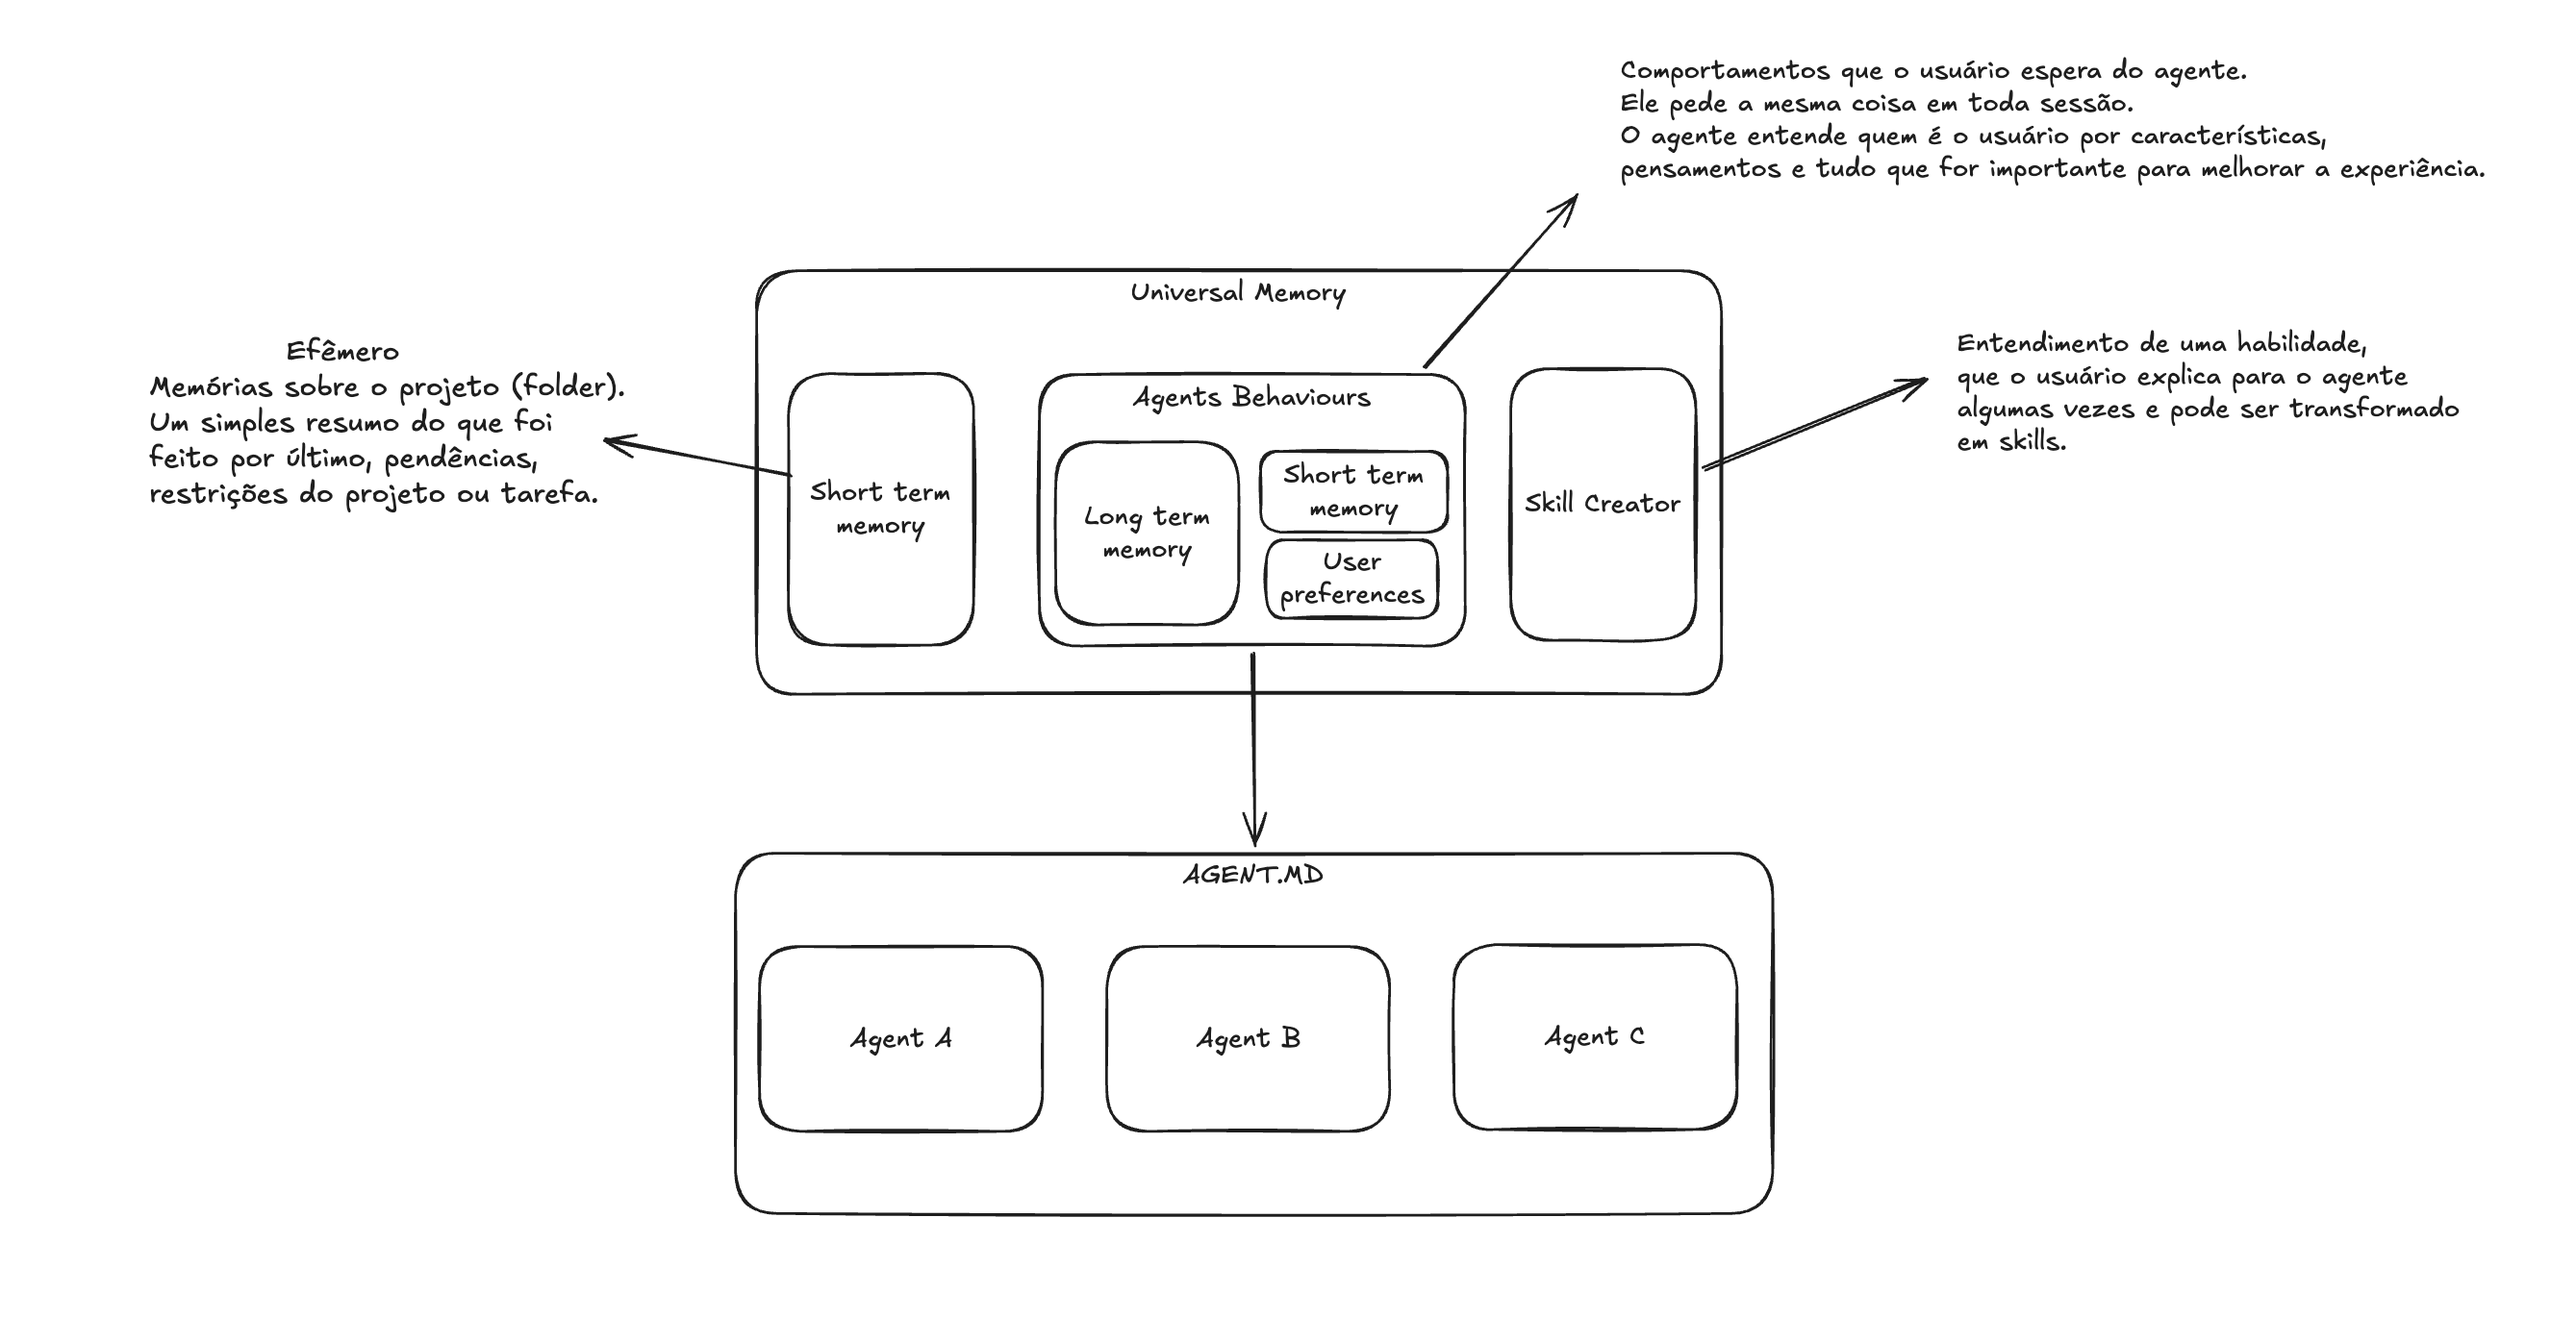
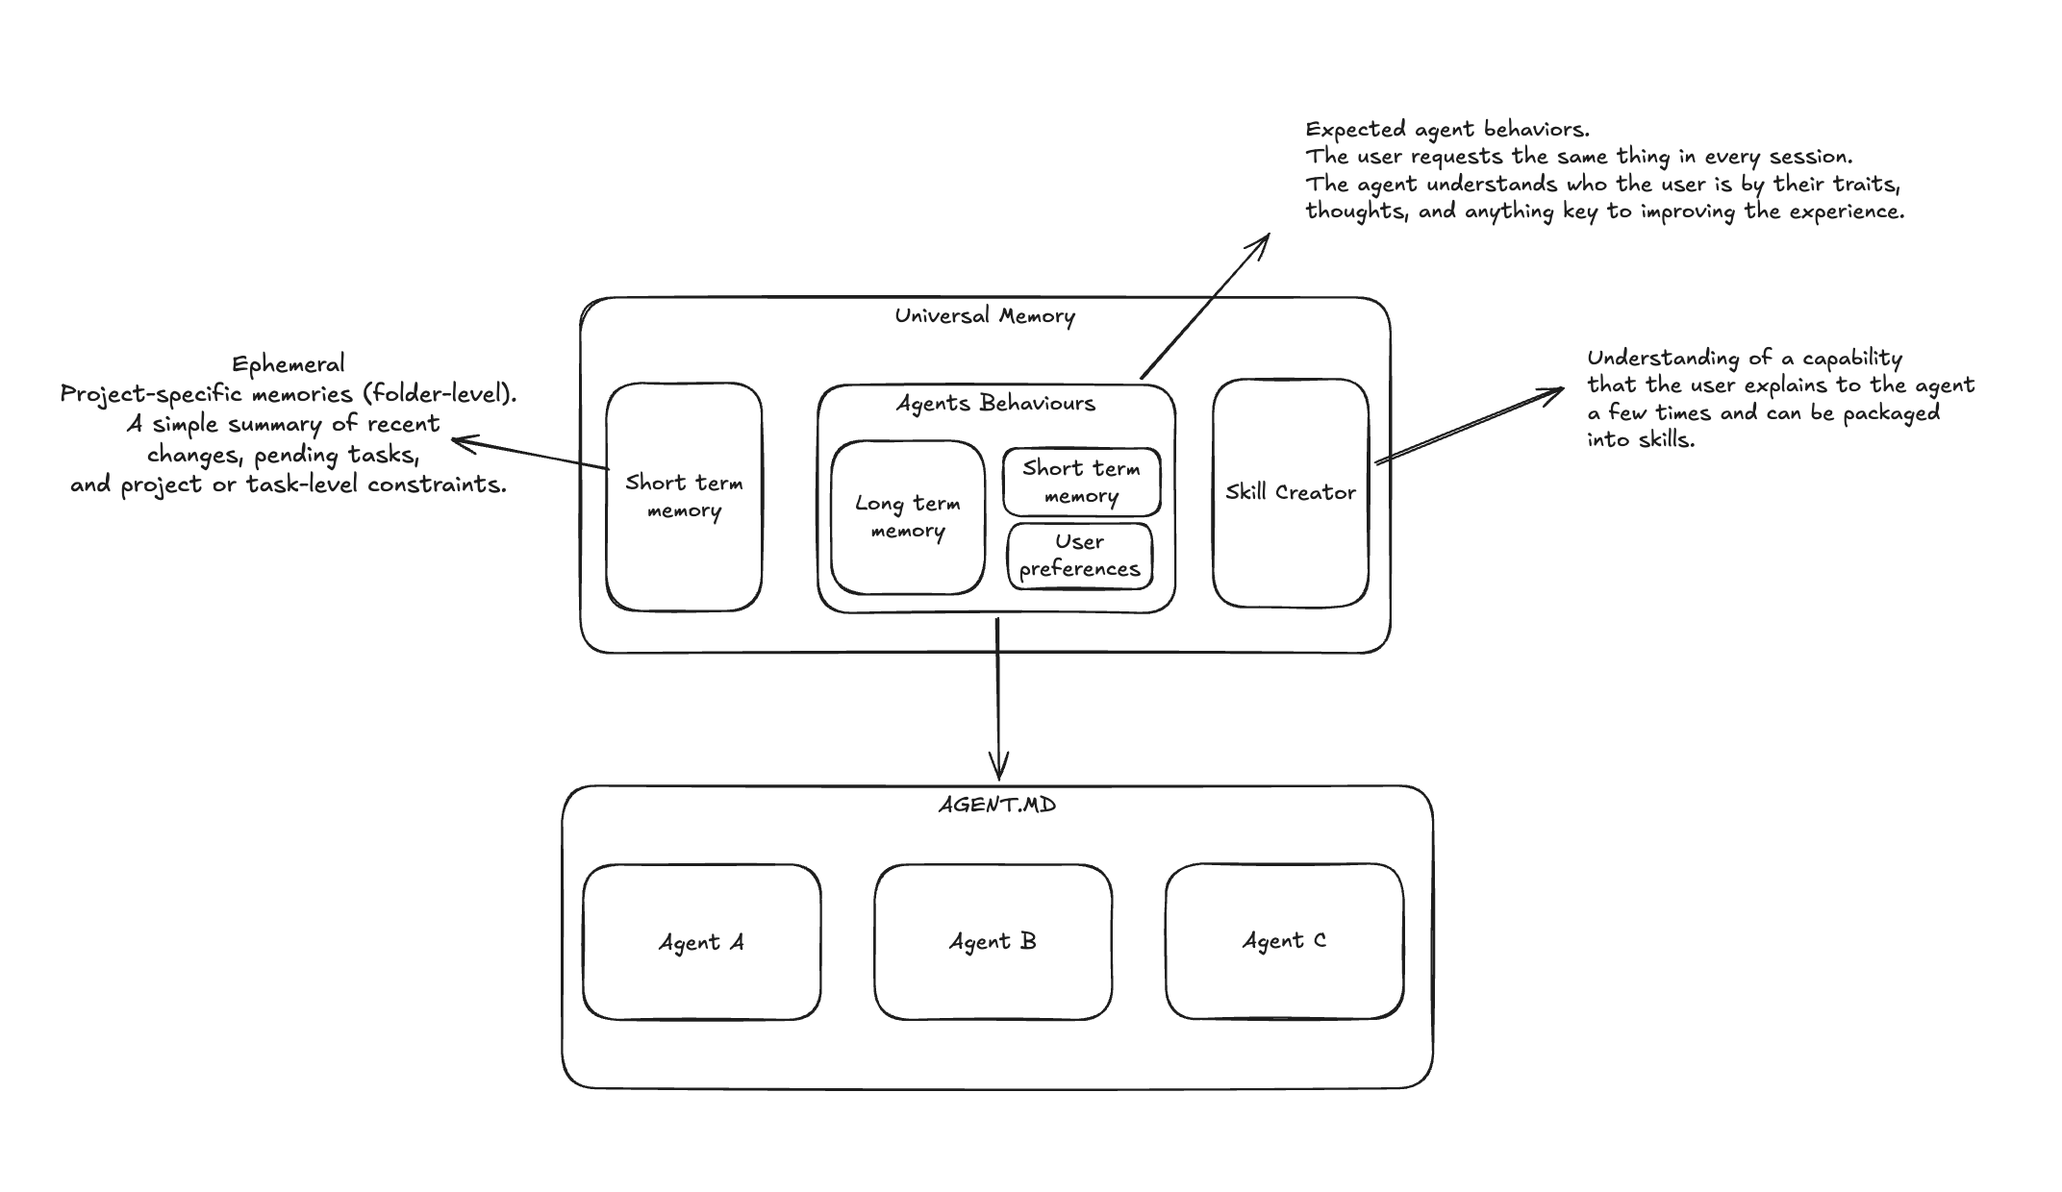
docs: add MIT LICENSE and write comprehensive project README.md

diff --git a/README.md b/README.md
@@ -1,7 +1,178 @@
-# univesal-memory
+# Universal Memory (umem)
 
-To understando the main idea look [here](https://excalidraw.com/#json=Z9cEhzx3fGTvjYv3x1gkW,hDCTn3_Kef6YpvYgo8Ps2w). Or check the image below:
+[![PyPI version](https://img.shields.io/pypi/v/universal-memory.svg)](https://pypi.org/project/universal-memory/)
+[![Python Version](https://img.shields.io/pypi/pyversions/universal-memory.svg)](https://img.shields.io/project/universal-memory/)
+[![License: MIT](https://img.shields.io/badge/License-MIT-yellow.svg)](https://opensource.org/licenses/MIT)
+
+A vendor-agnostic cognitive persistence layer for AI agents. Eliminate the "repetition tax" by transporting your context, preferences, guidelines, and history seamlessly across sessions, IDEs, and LLM models.
+
+To see the core idea visually, check out the [Excalidraw design](https://excalidraw.com/#json=j3XjQIWMYEnkIzHpypuBb,rNJaVOECDGZ3WSuEYcCDjQ) or the proposal structure:
 
 ![Universal Memory MVP Proposal](docs/UNIVERSAL-MEMORY-MVP-PROPOSAL.png)
 
-A vendor-agnostic cognitive persistence layer for AI agents. Eliminate the "repetition tax" by transporting your context, preferences, and history across sessions. Features an auto-adaptation engine that syncs global instructions to ensure operational cohesion and optimize token usage across any LLM or multi-agent workflow.
+### Diagram Breakdown (English Translation)
+
+*   **Short-Term Memory (Ephemeral):** Project-specific (folder-level) memories. A simple summary of recent changes, pending tasks, and project or task-level constraints.
+*   **Agents Behaviours:** Comports the user's expected agent behaviors. Instead of requesting the same settings in every session, the agent understands the user by their traits, thoughts, and any context key to enhancing the overall experience. This encompasses:
+    *   **Long-Term Memory**
+    *   **Short-Term Memory**
+    *   **User Preferences**
+*   **Skill Creator:** Encapsulates understanding of specific workflows. When a user explains a task pattern multiple times, the system translates it into structured, reusable agent skills.
+*   **Unified Instruction File (`AGENT.MD`):** The shared persistence endpoint consumed by all local agent instances (e.g., Agent A, Agent B, Agent C).
+
+---
+
+## The Problem: The "Repetition Tax"
+
+Every time you open a new session in Claude Code, start a new chat in Cursor, spin up a terminal with OpenCode, or invoke a local AI assistant, you pay a steep cognitive tax:
+* Re-explaining your stack (e.g., "We use Python 3.12, Typer, and Ruff").
+* Repeating coding style preferences (e.g., "Prefer functional design, do not write docstrings unless requested").
+* Copy-pasting database connection schemas or module layouts.
+* Explaining workflow methodologies (e.g., "We follow Spec-Driven Development (SDD)").
+
+Universal Memory acts as a local "Cognitive USB Drive" that automatically connects to your AI runtimes, aligning them to your exact workflow, context, and rules with zero friction.
+
+---
+
+## Key Architectural Concepts
+
+### 1. Dual-Memory Model
+*   **Short-Term Memory (Project Scope):** Ephemeral, directory-specific context. Tracks what you did 10 minutes ago, current active tasks, and immediate constraints.
+*   **Universal Memory (Global Scope):** Long-lived preferences, style guidelines, tool configurations, and identity.
+
+### 2. Auto-Adaptation Engine
+Instead of copy-pasting instructions, `umem` monitors your session context and automatically updates active project instruction manifests (`AGENTS.md`, `CLAUDE.md`, `.cursor/rules/`, etc.), enforcing operational consistency across all agents.
+
+### 3. Model Context Protocol (MCP) Integration
+Integrate `umem` natively with any client supporting the standard MCP (such as Claude Desktop or Cursor). AI agents can programmatically retrieve context, learn new facts, and suggest skills on the fly.
+
+### 4. Agent Skills Standard
+Encapsulates complex, repetitive procedural instructions into formal Agent Skills (conforming to the [agentskills.io](https://agentskills.io) standard), complete with structured directories containing `SKILL.md` instructions, helper `scripts/`, and documentation `references/`.
+
+---
+
+## Installation & Setup
+
+Ensure you have Python 3.12+ installed. You can run or install `umem` using your preferred package manager.
+
+### Run instantly with `uv` (Recommended)
+You don't even need to install it permanently:
+```bash
+uvx umem --help
+```
+
+### Install via PyPI
+```bash
+pip install universal-memory
+```
+
+---
+
+## Quick Start Guide
+
+### 1. Initialize your project
+Initialize `umem` in the current directory and hook it to your preferred runtimes/agents:
+```bash
+umem init --runtime claude-code --runtime opencode --runtime cursor
+```
+This sets up a local repository configuration, hooks up the necessary workspace instructions (`AGENTS.md`, `CLAUDE.md`), and prepares native skill folders.
+
+### 2. Save your first preferences and facts
+Tell `umem` what to keep in mind. You can target either the project scope (this folder) or the global scope (across all projects):
+```bash
+# Save a global preference
+umem remember --scope global "Yan is a solutions architect specializing in AI applications"
+
+# Save a project-specific constraint
+umem remember --scope project "Always use Tomllib instead of PyYAML for configuration files" --tag config
+```
+
+### 3. Retrieve Context
+Verify the consolidated context summary generated by combining short-term facts, rules, and global preferences:
+```bash
+umem context --scope project
+```
+
+### 4. Check status and health
+```bash
+umem status
+```
+
+---
+
+## Host Integration & Support Matrix
+
+`umem` maps cognitive context and agent skills directly into native runtime paths:
+
+| Runtime / Host | Support Tier | Config / Instructions Target |
+| --- | --- | --- |
+| **Claude Code** | Tier 1 (Full) | `CLAUDE.md`, `.claude/`, `~/.claude/` |
+| **OpenCode** | Tier 1 (Full) | `AGENTS.md`, `.opencode/`, `~/.config/opencode/` |
+| **Codex (OpenAI)** | Tier 1 (Full) | `AGENTS.md`, workspace configuration files |
+| **Cursor** | Tier 2 (Basic) | `.cursor/rules/`, `~/.cursor/` |
+| **Antigravity / Gemini** | Tier 2 (Basic) | `GEMINI.md`, `~/.gemini/` |
+
+---
+
+## Running as an Model Context Protocol (MCP) Server
+
+AI agents can interact directly with your memory over the Model Context Protocol.
+
+### CLI Launch Command
+```bash
+umem-mcp
+```
+
+### Example Config: Claude Desktop (`claude_desktop_config.json`)
+```json
+{
+  "mcpServers": {
+    "universal-memory": {
+      "command": "uv",
+      "args": [
+        "run",
+        "--package",
+        "universal-memory",
+        "umem-mcp"
+      ]
+    }
+  }
+}
+```
+
+---
+
+## Safety & Guardrails
+
+*   **API Secret Scanner:** `umem` passes all incoming facts through a passive scanner to block API keys, tokens, or credentials from being stored in your persistent cognitive base.
+*   **Snapshots & Rollbacks:** Every automated update to your config files (`AGENTS.md`, `CLAUDE.md`) is preceded by a snapshot backup. You can rollback anytime:
+    ```bash
+    # View audit logs
+    umem audit list --scope project
+    
+    # Revert last automated modification
+    umem rollback --scope project
+    ```
+*   **Update Conflict Warnings:** When updating canonical skills, if `umem` detects manual edits in local runtime rule directories (e.g. `.cursor/rules/sdd-rules.md`), it prompts you interactivelly to choose whether to keep your local edits or overwrite them, preventing workflow disruption.
+
+---
+
+## Managing Agent Skills
+
+You can create, list, and sync specialized behaviors:
+```bash
+# List all active skills
+umem skills list
+
+# Synchronize skills into active native runtime folders
+umem update --skills
+
+# Generate a new skill template from a latent skill proposal
+umem skills generate --name build-standard
+```
+
+---
+
+## License
+
+Distributed under the MIT License. See [LICENSE](LICENSE) for more information.
